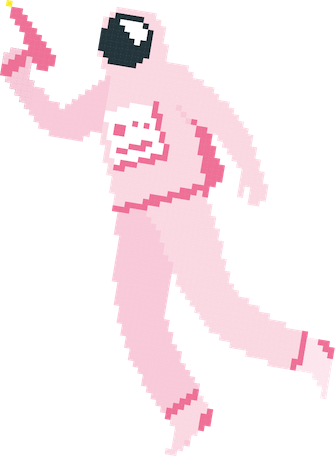
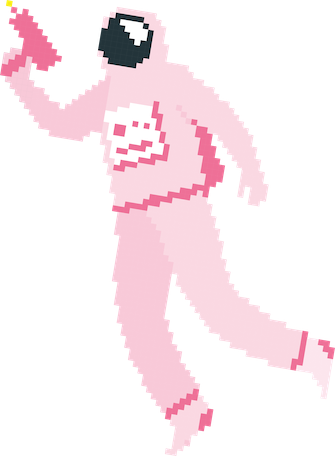
Leaderboard changes and astro image
Changed position of buttons for restart game and clear scores. Also used updated astro image.

Changed region(s): [[0.0299, 0.0, 0.1791, 0.1535], [0.4179, 0.0307, 0.4478, 0.0921]]

diff --git a/js/index.html b/js/index.html
@@ -17,56 +17,65 @@
 	<script src="Game.js"></script>
 
 	<style>
-		#leaderboard {
-			width: 920px;
-			float: center;
-			height: 250px;
-			background-color: #f0f0f0;
-			margin-left: 99px;
-			box-sizing: border-box;
+		#bottomContainer {
+			display: flex;
+			justify-content: space-between;
 		}
 
 		#buttonContainer {
-    display: flex;
-    justify-content: center;
-    gap: 20px;
-}
+			display: flex;
+			flex-direction: column;
+			justify-content: center;
+			gap: 20px;
+			width: 30%;
+		}
 
-#clearScores, #restartGame {
-    display: flex;
-    align-items: center;
-    justify-content: center;
-    padding: 10px 20px;
-    color: #fff;
-    border: none;
-    cursor: pointer;
-    width: 150px;  /* Set a fixed width */
-    height: 50px;  /* Set a fixed height */
-    margin: 20px auto;
-    border-radius: 5px;
-    font-size: 16px;
-    font-weight: bold;
-    text-transform: uppercase;
-    transition: background-color 0.3s;
-}
+		#leaderboard {
+			width: 50%;
+			height: 250px;
+			background-color: #f0f0f0;
+			box-sizing: border-box;
+		}
 
-#clearScores {
-    background-color: #f00;
-}
+		#clearScores,
+		#restartGame {
+			display: flex;
+			align-items: center;
+			justify-content: center;
+			padding: 10px 20px;
+			color: #fff;
+			border: none;
+			cursor: pointer;
+			width: 150px;
+			height: 50px;
+			margin: 20px auto;
+			border-radius: 5px;
+			font-size: 16px;
+			font-weight: bold;
+			text-transform: uppercase;
+			transition: background-color 0.3s;
+		}
 
-#restartGame {
-    background-color: #4CAF50;
-}
+		#clearScores {
+			background-color: #f00;
+		}
+
+		#restartGame {
+			background-color: #4CAF50;
+		}
 	</style>
 </head>
 
 <body>
 
 	<div id="gameContainer"></div>
-	<div id="leaderboard"></div>
-	<div id="buttonContainer">
-		<button id="clearScores">Clear Scores</button>
-		<button id="restartGame">Restart Game</button>
+	<!-- <div id="leaderboard"></div> -->
+	<div id="bottomContainer">
+		<div id="buttonContainer">
+			<button id="restartGame">Restart Game</button>
+			<button id="clearScores">Clear Scores</button>
+		</div>
+		<div id="leaderboard"></div>
 	</div>
 
 	<script type="text/javascript">
@@ -90,7 +99,7 @@
 					return b.score - a.score;
 				});
 				var leaderboard = document.getElementById('leaderboard');
-				leaderboard.innerHTML = '';
+				leaderboard.innerHTML = '<h2>Leaderboard</h2>';
 				for (var i = 0; i < scores.length && i < 10; i++) {
 					leaderboard.innerHTML += 'Rank ' + (i + 1) + ' (' + scores[i].name + '): ' + scores[i].score + '<br>';
 				}
